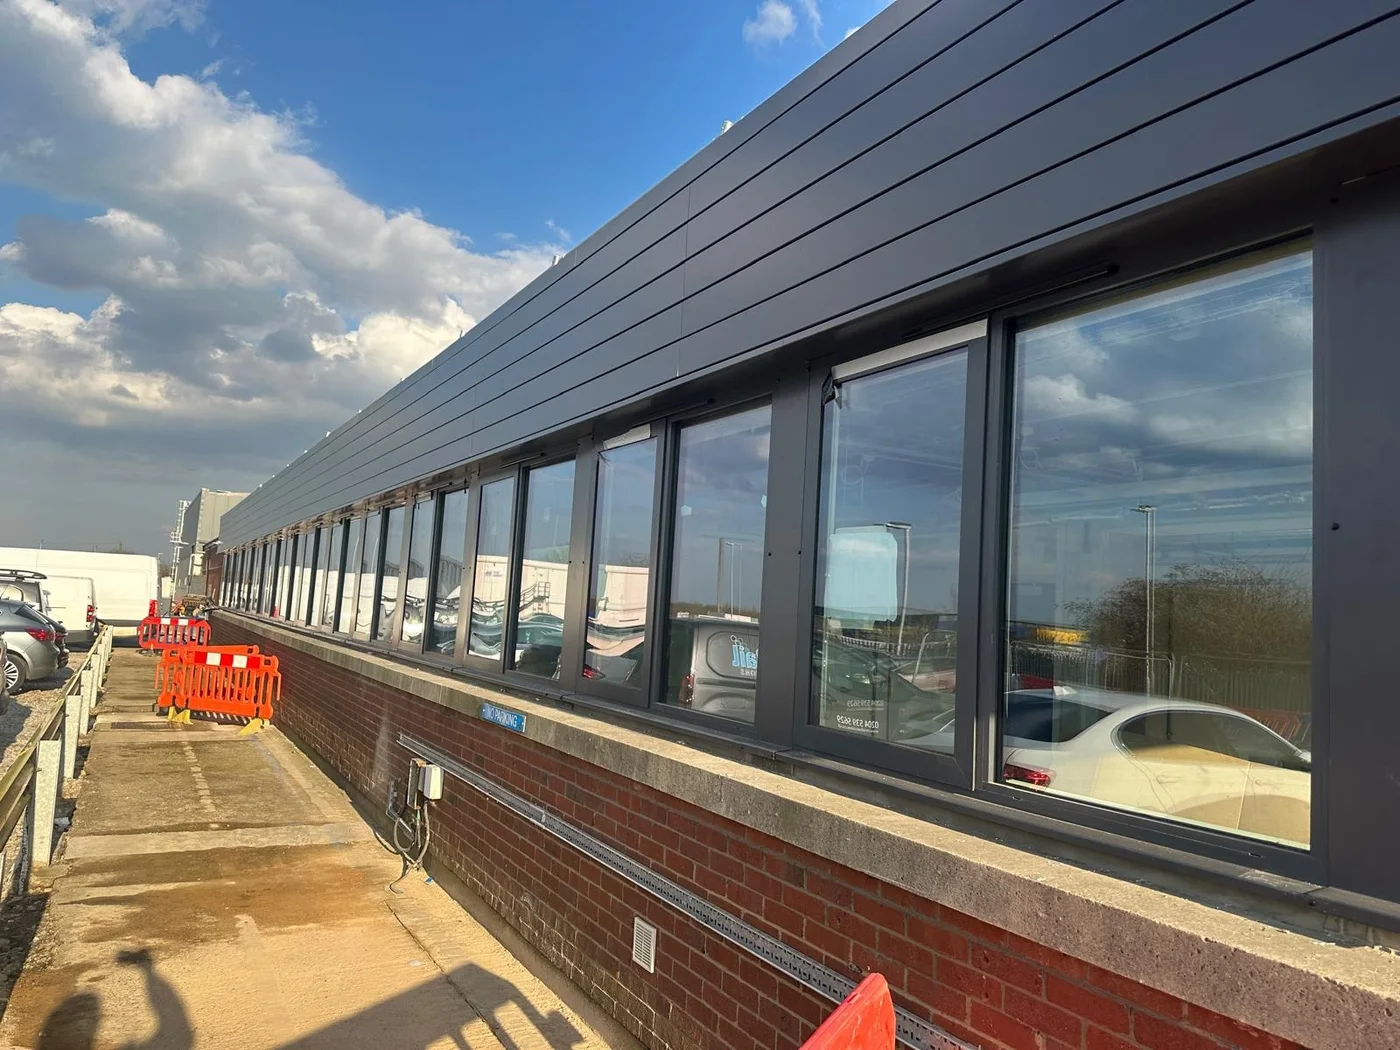
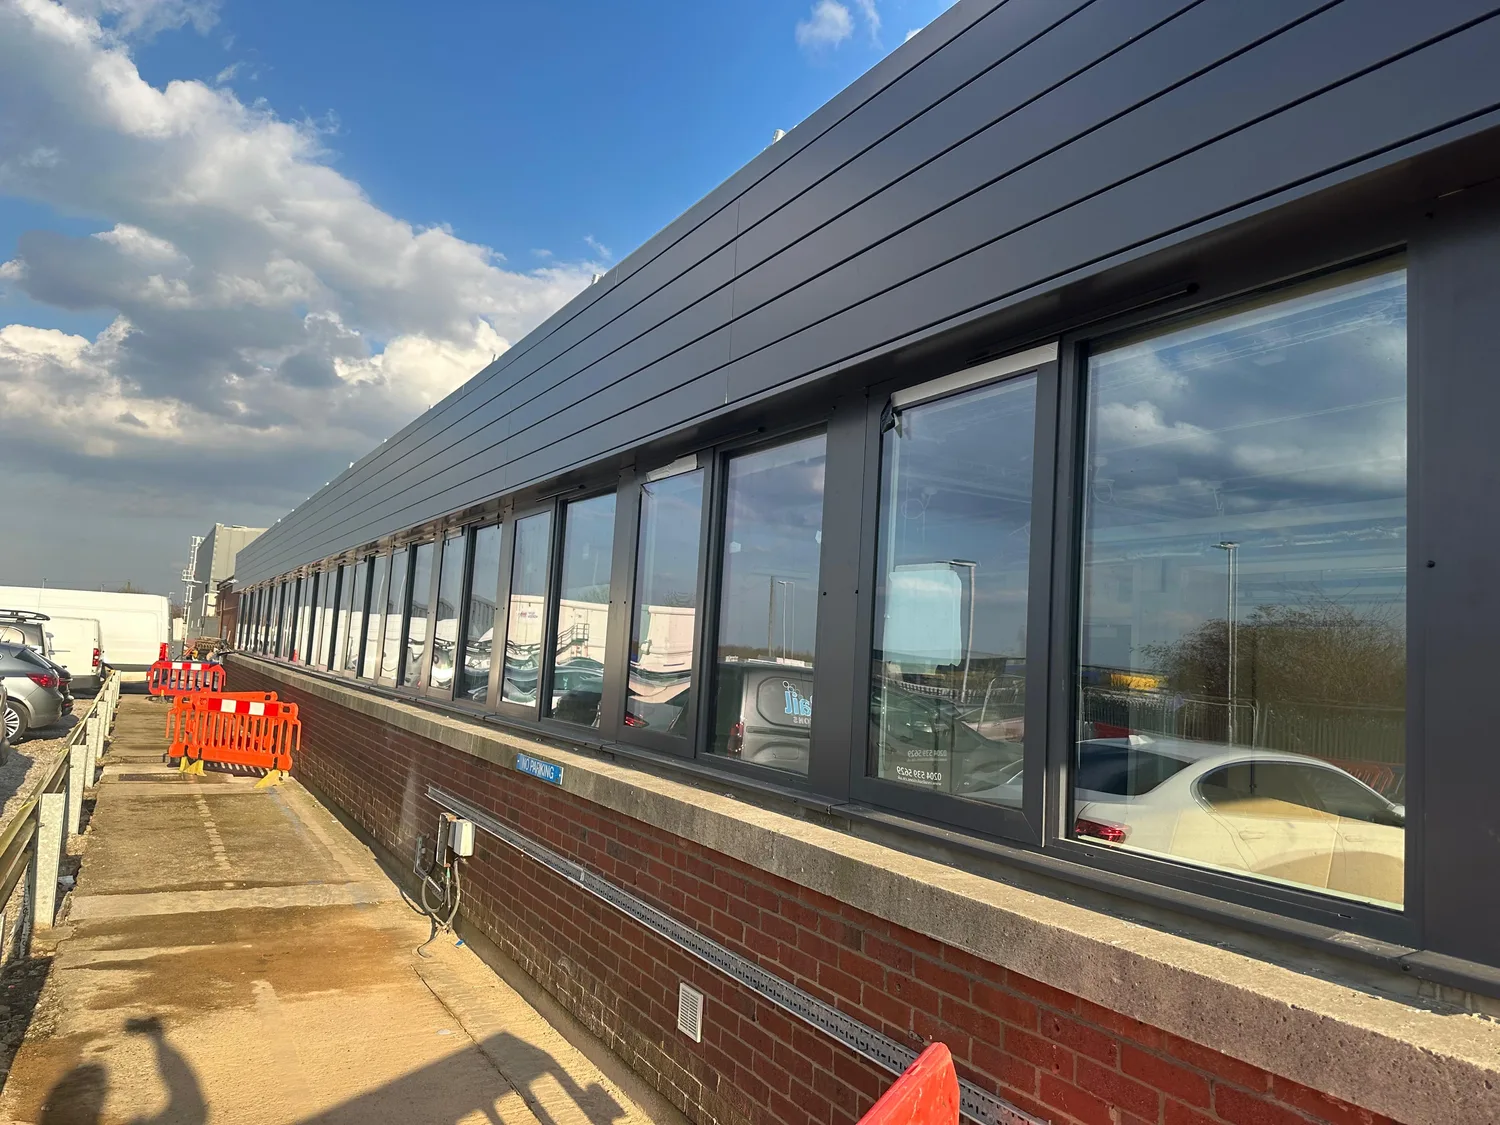
Bletchley: the real photographs, including a genuine before
Six of Fenster's own, replacing the single 1600x1200 image lifted out of the
deck. The before shot is the SAME ELEVATION as the hero, which is what makes it
worth having: the old frames had rusted through at the mullions and were
staining the sills.

Three faces blurred in it. Depot staff sitting inside and a third party in hi-vis
outside, all identifiable at full size and none of them ours. The rust, which is
the entire point of the photograph, is untouched.

Sources are published at their natural aspect rather than pre-cropped, because
the gallery now squares them with object-fit at render time and the rule I wrote
yesterday says not to crop originals for it.

Finding these took four failed searches and the lesson is worth keeping: I looked
by modification time, by the dimensions I could see in chat, by UUID filename and
by keyword, and missed them every time. They were a PHOTO-2025-12-10 batch at
full phone resolution, and the before was saved while I was still searching.

Changed region(s): [[0.0, 0.579, 0.1843, 0.6705], [0.7064, 0.7314, 0.7679, 0.7619], [0.1536, 0.5486, 0.215, 0.579]]

diff --git a/app/public/wp-content/themes/fenster/inc/case-studies-data.php b/app/public/wp-content/themes/fenster/inc/case-studies-data.php
@@ -128,11 +128,17 @@ function fenster_case_studies(): array
          * `$fitter` helper slugs those names into real anchors. `team_label` is
          * set because "Installers" would be wrong for a surveyor and a director.
          *
-         * ONE PHOTOGRAPH ONLY so far, and it is extracted from the deck's own
-         * page rather than supplied as a file, so it is 1600x1200 rather than a
-         * phone original. Four more exist and should replace and extend this the
-         * moment they arrive as files: two entrance doorsets, the curtain wall
-         * head detail, and the internal reception screen.
+         * SIX PHOTOGRAPHS, all Fenster's own and all at phone resolution. The
+         * first version of this study ran a 1600x1200 image lifted out of the
+         * deck; that is replaced. The before shot is the same elevation as the
+         * hero, which is what makes the pair worth having.
+         *
+         * THREE FACES ARE BLURRED in the before shot. Depot staff sitting inside
+         * and a third party in hi-vis outside, all identifiable at full size and
+         * none of them ours. The rust on the mullions, which is the entire point
+         * of the photograph, is untouched. A mirrored phone number on a van
+         * reflected in the finished elevation was left: it is a company's own
+         * advertised number, reversed and tiny at render size.
          */
         'bletchley-rail-depot-refurbishment' => [
             'title' => 'Curtain walling, windows and doors, Bletchley rail depot',
@@ -170,8 +176,17 @@ function fenster_case_studies(): array
             ],
             'team_label' => 'Surveyed and managed by',
             'installers' => [$surveyor_david, $director_adam],
+            /* images[0] is the HERO and the rest are the gallery, so the
+               finished elevation leads and the before sits first in the gallery
+               with a caption that points back at it. The two cannot sit side by
+               side because one of them is the hero. */
             'images' => [
-                ['src' => $img . 'cs-bletchley-rail-depot-elevation.webp', 'caption' => 'The main elevation, with the run of aluminium windows under the new cladding line.'],
+                ['src' => $img . 'cs-bletchley-rail-depot-elevation.webp', 'caption' => 'The finished elevation, with the run of aluminium windows under the new cladding line.'],
+                ['src' => $img . 'cs-bletchley-rail-depot-before.webp', 'caption' => 'The same elevation before we started. The old frames had rusted through at the mullions and were staining the sills below them.'],
+                ['src' => $img . 'cs-bletchley-rail-depot-entrance.webp', 'caption' => 'One of the automatic entrance doorsets, with fixed sidelights and a screen over.'],
+                ['src' => $img . 'cs-bletchley-rail-depot-entrance-wide.webp', 'caption' => 'The second entrance, on the ramped approach.'],
+                ['src' => $img . 'cs-bletchley-rail-depot-head-detail.webp', 'caption' => 'The window head against the new cladding line, frames colour-matched through the package.'],
+                ['src' => $img . 'cs-bletchley-rail-depot-reception.webp', 'caption' => 'The internal reception screen, with its sliding hatch onto the corridor.'],
             ],
             'seo' => [
                 'title_tag' => 'Bletchley Rail Depot: Commercial Windows, Doors and Curtain Walling',
